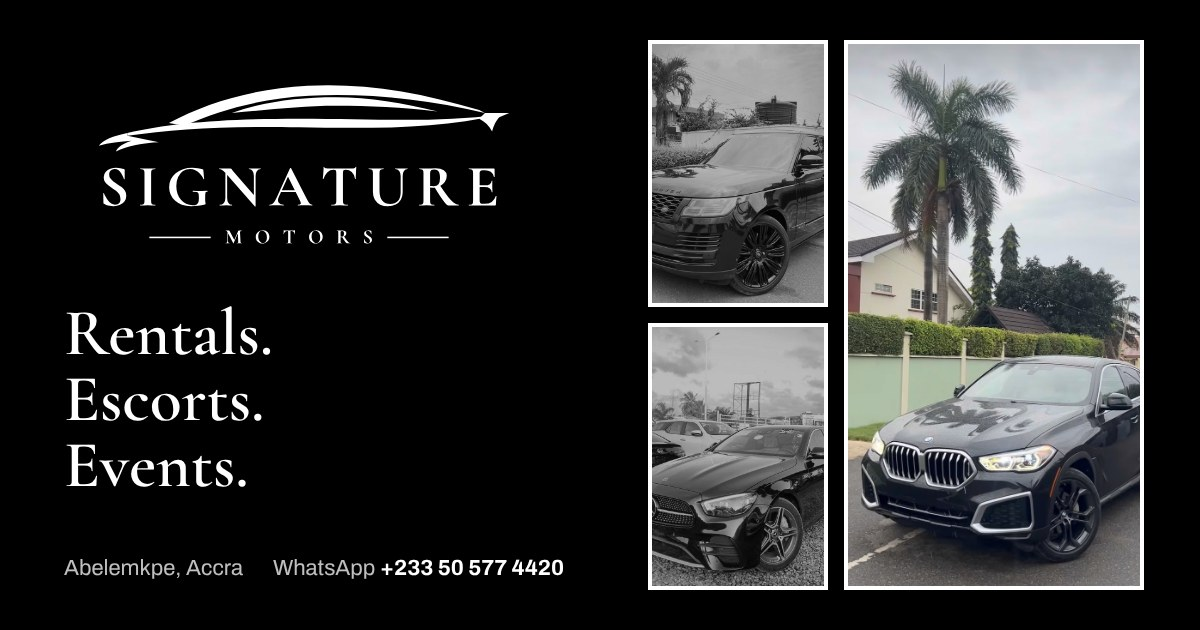
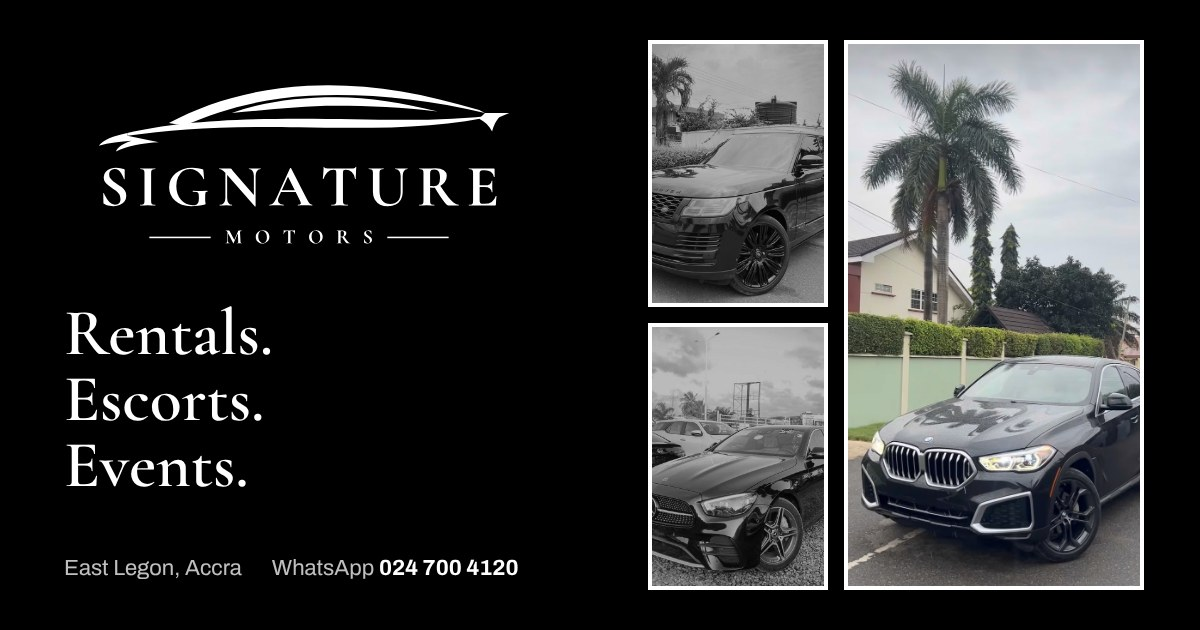
Update to official number 024 700 4120 and East Legon location
Claude-Session: https://claude.ai/code/session_01HdyAWMqJAL74LSXnPBk4UD

Changed region(s): [[0.0308, 0.8746, 0.4625, 0.9349]]

diff --git a/index.html b/index.html
@@ -12,7 +12,7 @@
 <meta property="og:url" content="https://signature-motors-gh.vercel.app/">
 <meta property="og:site_name" content="Signature Motors">
 <meta property="og:title" content="Signature Motors | Rentals, escorts and events">
-<meta property="og:description" content="Car rentals, VIP escorts and event cars in Accra. Book on WhatsApp: +233 50 577 4420.">
+<meta property="og:description" content="Car rentals, VIP escorts and event cars in Accra. Book on WhatsApp: 024 700 4120.">
 <meta property="og:image" content="https://signature-motors-gh.vercel.app/img/og.jpg">
 <meta property="og:image:width" content="1200">
 <meta property="og:image:height" content="630">
@@ -32,7 +32,7 @@
 <link href="https://fonts.googleapis.com/css2?family=Archivo:wdth,wght@62..125,400..900&family=Cormorant+Garamond:wght@500;600;700&display=swap" rel="stylesheet">
 <link rel="preload" as="image" href="img/cars/bmw-x6-2022-tall.jpg">
 <script type="application/ld+json">
-{"@context":"https://schema.org","@type":"AutoRental","name":"Signature Motors","logo":"https://signature-motors-gh.vercel.app/img/brand/logo-black.png","url":"https://signature-motors-gh.vercel.app/","telephone":"+233505774420","address":{"@type":"PostalAddress","addressLocality":"Abelemkpe, Accra","addressCountry":"GH"},"description":"Car rentals, VIP escorts and event cars in Accra."}
+{"@context":"https://schema.org","@type":"AutoRental","name":"Signature Motors","logo":"https://signature-motors-gh.vercel.app/img/brand/logo-black.png","url":"https://signature-motors-gh.vercel.app/","telephone":"+233247004120","address":{"@type":"PostalAddress","streetAddress":"Jungle Avenue Road","addressLocality":"East Legon, Accra","addressCountry":"GH"},"description":"Car rentals, VIP escorts and event cars in Accra."}
 </script>
 <style>
 :root{
@@ -213,7 +213,7 @@ footer .wrap{container-type:inline-size}
     <a href="#how">How it works</a>
     <a href="#book">Book</a>
   </nav>
-  <a class="call" href="tel:+233505774420">+233 50 577 4420</a>
+  <a class="call" href="tel:+233247004120">024 700 4120</a>
 </header>
 
 <main id="top">
@@ -229,7 +229,7 @@ footer .wrap{container-type:inline-size}
         <p class="hero-copy">Clean, well-kept cars that arrive on time. One car for the weekend or a full fleet for your wedding.</p>
       </div>
       <div class="hero-cta">
-        <a class="btn btn-w" data-wa="Hi Signature Motors, I'd like to book a car." href="https://wa.me/233505774420" target="_blank" rel="noopener">Book on WhatsApp</a>
+        <a class="btn btn-w" data-wa="Hi Signature Motors, I'd like to book a car." href="https://wa.me/233247004120" target="_blank" rel="noopener">Book on WhatsApp</a>
         <a class="btn btn-o" href="#fleet">See the fleet</a>
       </div>
     </div>
@@ -243,19 +243,19 @@ footer .wrap{container-type:inline-size}
           <h3>Rentals</h3>
           <p>Daily and weekly car hire for business trips, visitors and everyday driving.</p>
           <ul><li>SUVs</li><li>Saloons</li><li>Ask about a driver</li></ul>
-          <a class="u" data-wa="Hi Signature Motors, I'd like to rent a car. Dates:" href="https://wa.me/233505774420" target="_blank" rel="noopener">Book a rental</a>
+          <a class="u" data-wa="Hi Signature Motors, I'd like to rent a car. Dates:" href="https://wa.me/233247004120" target="_blank" rel="noopener">Book a rental</a>
         </li>
         <li>
           <h3>Escorts</h3>
           <p>Escort and convoy cars for VIPs, dignitaries and private clients, matched and moving together.</p>
           <ul><li>VIP escorts</li><li>Convoys</li><li>Matching cars</li></ul>
-          <a class="u" data-wa="Hi Signature Motors, I need escort cars. Date, route and number of cars:" href="https://wa.me/233505774420" target="_blank" rel="noopener">Book an escort</a>
+          <a class="u" data-wa="Hi Signature Motors, I need escort cars. Date, route and number of cars:" href="https://wa.me/233247004120" target="_blank" rel="noopener">Book an escort</a>
         </li>
         <li>
           <h3>Events</h3>
           <p>Cars for the days that matter. Book one car or a full fleet.</p>
           <ul><li>Weddings</li><li>Funerals</li><li>Corporate events</li></ul>
-          <a class="u" data-wa="Hi Signature Motors, I need cars for an event. Type of event, date and number of cars:" href="https://wa.me/233505774420" target="_blank" rel="noopener">Book for an event</a>
+          <a class="u" data-wa="Hi Signature Motors, I need cars for an event. Type of event, date and number of cars:" href="https://wa.me/233247004120" target="_blank" rel="noopener">Book for an event</a>
         </li>
       </ul>
     </div>
@@ -303,12 +303,12 @@ footer .wrap{container-type:inline-size}
           <p class="hint">Opens WhatsApp with your request written out.</p>
         </form>
         <dl class="facts">
-          <dt>Garage</dt><dd>Abelemkpe, Accra. <a class="u" href="https://www.google.com/maps/search/?api=1&query=Abelemkpe+Accra+Ghana" target="_blank" rel="noopener">Directions</a></dd>
-          <dt>Call</dt><dd><a href="tel:+233505774420">+233 50 577 4420</a></dd>
-          <dt>WhatsApp</dt><dd><a data-wa="Hi Signature Motors, I'd like to book a car." href="https://wa.me/233505774420" target="_blank" rel="noopener">+233 50 577 4420</a></dd>
+          <dt>Location</dt><dd>Jungle Avenue Road, East Legon, Accra. <a class="u" href="https://www.google.com/maps/search/?api=1&query=Jungle+Avenue+Road+East+Legon+Accra+Ghana" target="_blank" rel="noopener">Directions</a></dd>
+          <dt>Call</dt><dd><a href="tel:+233247004120">024 700 4120</a></dd>
+          <dt>WhatsApp</dt><dd><a data-wa="Hi Signature Motors, I'd like to book a car." href="https://wa.me/233247004120" target="_blank" rel="noopener">024 700 4120</a></dd>
         </dl>
         <div class="map">
-          <iframe title="Map of Abelemkpe, Accra" loading="lazy" referrerpolicy="no-referrer-when-downgrade" src="https://www.google.com/maps?q=Abelemkpe,+Accra,+Ghana&z=15&output=embed"></iframe>
+          <iframe title="Map of Jungle Avenue Road, East Legon, Accra" loading="lazy" referrerpolicy="no-referrer-when-downgrade" src="https://www.google.com/maps?q=Jungle+Avenue+Road,+East+Legon,+Accra,+Ghana&z=16&output=embed"></iframe>
         </div>
       </div>
     </div>
@@ -320,22 +320,22 @@ footer .wrap{container-type:inline-size}
     <p class="word" aria-hidden="true">SIGNATURE MOTORS</p>
     <div class="foot">
       <nav aria-label="Contact">
-        <a href="tel:+233505774420">Call</a>
-        <a data-wa="Hi Signature Motors, I'd like to book a car." href="https://wa.me/233505774420" target="_blank" rel="noopener">WhatsApp</a>
+        <a href="tel:+233247004120">Call</a>
+        <a data-wa="Hi Signature Motors, I'd like to book a car." href="https://wa.me/233247004120" target="_blank" rel="noopener">WhatsApp</a>
         <a href="#book">Book</a>
       </nav>
-      <p>Rentals, escorts and events. Abelemkpe, Accra.</p>
+      <p>Rentals, escorts and events. Jungle Avenue Road, East Legon, Accra.</p>
     </div>
   </div>
 </footer>
 
 <div class="dock" id="dock" aria-label="Quick contact">
-  <a class="btn btn-o" href="tel:+233505774420">Call</a>
-  <a class="btn btn-w" data-wa="Hi Signature Motors, I'd like to book a car." href="https://wa.me/233505774420" target="_blank" rel="noopener">WhatsApp</a>
+  <a class="btn btn-o" href="tel:+233247004120">Call</a>
+  <a class="btn btn-w" data-wa="Hi Signature Motors, I'd like to book a car." href="https://wa.me/233247004120" target="_blank" rel="noopener">WhatsApp</a>
 </div>
 
 <script>
-const PHONE = "233505774420";
+const PHONE = "233247004120";
 const wa = (msg) => `https://wa.me/${PHONE}?text=${encodeURIComponent(msg)}`;
 
 // Edit this list to update the fleet shown on the site.

diff --git a/README.md b/README.md
@@ -1,6 +1,6 @@
 # Signature Motors
 
-Website for Signature Motors, Abelemkpe, Accra: car rentals, VIP escorts and convoys, and cars for events.
+Website for Signature Motors, Jungle Avenue Road, East Legon, Accra (024 700 4120): car rentals, VIP escorts and convoys, and cars for events.
 Static HTML, deployed on Vercel.
 
 - Edit the fleet: the `CARS` list near the bottom of `index.html` (photos live in `img/cars/`).
